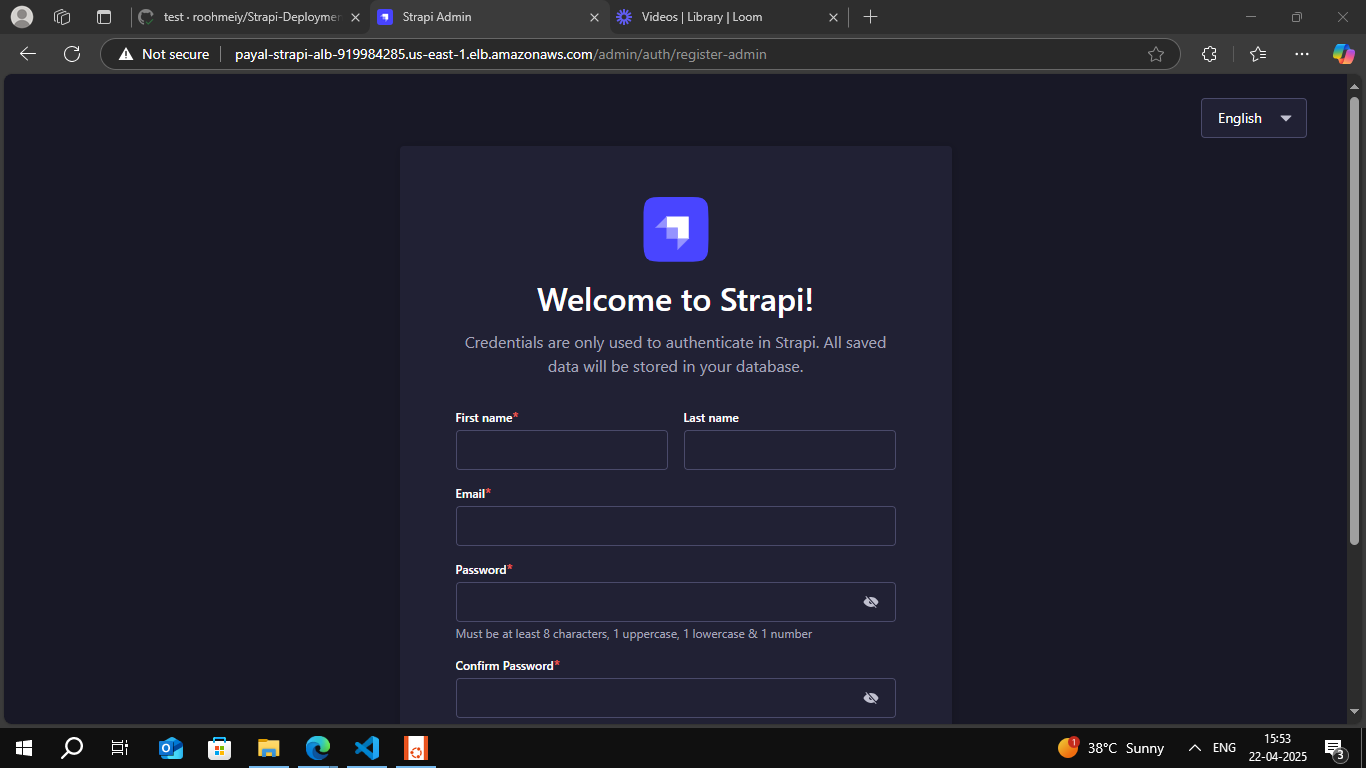
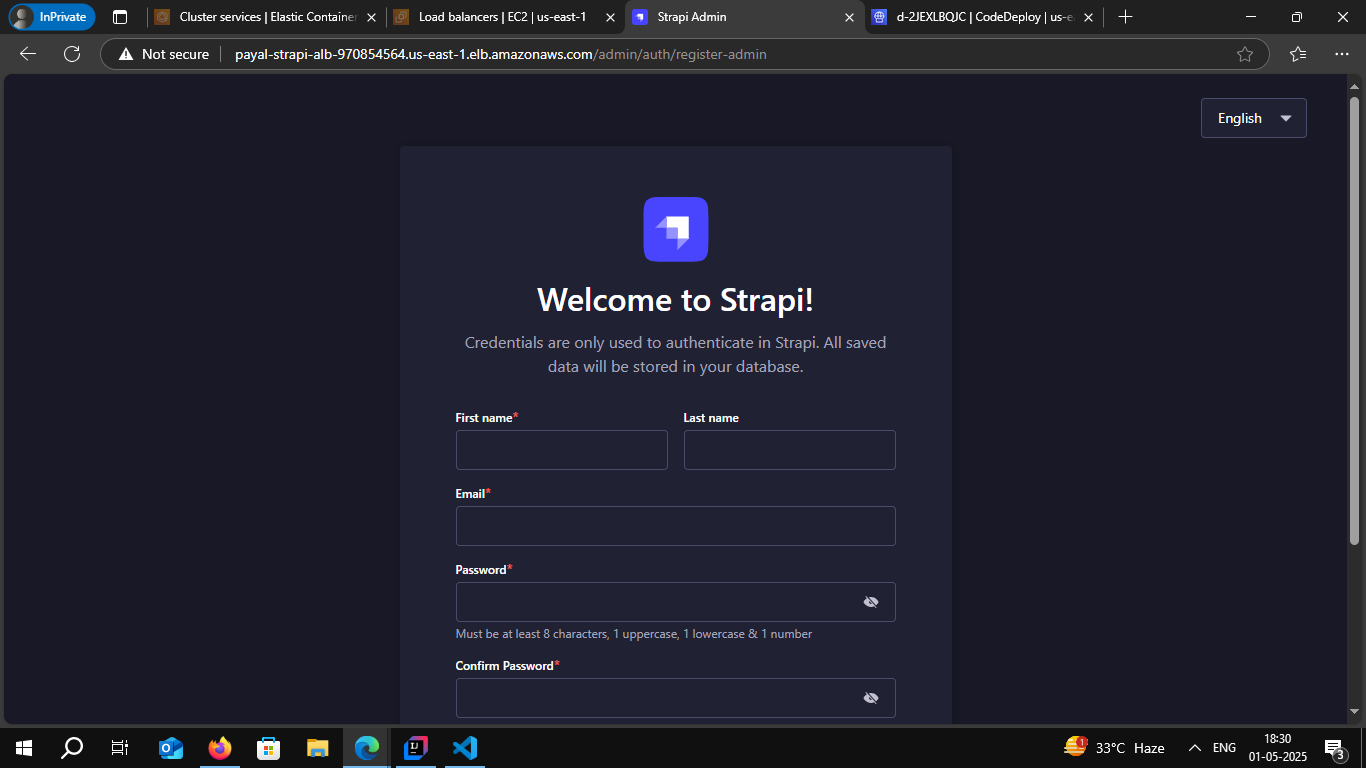
blue green deployment successful

diff --git a/Terraform-blue-green-deployment/README.md b/Terraform-blue-green-deployment/README.md
@@ -1,141 +1,91 @@
--  Deploys a Strapi CMS on AWS using Terraform and ECS Fargate.
-Infrastructure includes VPC, subnets, security groups, ALB, and ECS services.
-It pulls container images from an Amazon ECR repository.
-CI/CD pipeline is automated using GitHub Actions for seamless deployment.
-
 ![img3](img/img3.png "img3")
 ![img4](img/img4.png "img4")
-![img5](img/img5.jpeg "img5")
-![img6](img/img6.png "img6")
-
-### The Terraform code is in directory- Terraform-ecs-cicd  and pipleine code is in .github/workflows/strapi-ecs-yaml
-
-# Strapi AWS ECS Deployment Documentation
-
-## Overview
-
-This document describes the GitHub Actions workflow and Terraform configuration used to deploy a Strapi application to Amazon Elastic Container Service (ECS) fargate . The deployment pipeline builds a Docker image, pushes it to Amazon Elastic Container Registry (ECR), and deploys the containerized application to ECS using Fargate also theinfrastructure related to that such as vpc, subnet, internet gateway,route table, route table association, ALB, security groups, ECR repo.
-
-## Deployment Pipeline
-
-The GitHub Actions workflow automates the build and deployment process, using Terraform to manage the AWS infrastructure. The workflow is triggered by pushes to the main branch or can be manually triggered.
-
-### Workflow Stages
-
-1. **Prepare Environment**
-   - Checks out the code repository
-   - Configures AWS credentials
-   - Builds and pushes the Docker image to ECR with commit SHA tag
-   - Outputs the full image reference for use in subsequent jobs
-
-2. **Deploy Infrastructure**
-   - Sets up Terraform
-   - Initializes Terraform working directory
-   - Plans and applies the infrastructure changes
-   - Forces a new deployment of the ECS service
-
-3. **Cleanup on Failure**
-   - Destroys all created resources if the deployment fails
-   - Ensures no orphaned resources remain after a failed deployment
-
-### Image Tagging Strategy
-
-The workflow uses the Git commit SHA as the image tag to ensure immutable deployments and easy traceability:
-
-```yaml
-IMAGE_TAG: ${{ github.sha }}
-```
-
-The Docker image is built and pushed with this tag:
-
-```yaml
-docker build -t $ECR_REGISTRY/$ECR_REPOSITORY:$IMAGE_TAG .
-docker push $ECR_REGISTRY/$ECR_REPOSITORY:$IMAGE_TAG
-```
-
-## AWS Infrastructure
-
-The Terraform configuration creates and maintains the following AWS resources:
-
-### Networking
-- VPC with CIDR 10.0.0.0/16
-- Two public subnets across different Availability Zones
-- Internet Gateway
-- Route Table with public internet route
-- Security Group allowing traffic on ports 80 and 1337
-
-### Container Services
-- ECS Cluster
-- Fargate-compatible Task Definition with environment variables
-- ECS Service configured for high availability
-- Application Load Balancer (ALB)
-- Target Group with health checks
-
-### Task Definition
-
-The ECS Task Definition specifies a container using the ECR image built in the workflow:
-
-```terraform
-container_definitions = jsonencode([{
-  name  = "strapi-app"
-  image = "${data.aws_ecr_repository.strapi_repo.repository_url}:${var.image_tag}"
-  # Additional configuration...
-}])
-```
-
-The `image_tag` variable is populated with the Git commit SHA from the GitHub workflow.
-
-## Configuration and Secrets
-
-The deployment relies on the following GitHub secrets:
-
-### AWS Configuration
-- `AWS_ACCESS_KEY_ID`: AWS access key
-- `AWS_SECRET_ACCESS_KEY`: AWS secret key
-- `AWS_REGION`: Target AWS region
-
-### ECR Configuration
-- `ECR_REPOSITORY_NAME`: Name of the ECR repository
-
-### Infrastructure Naming
-- `VPC_NAME`: Name tag for the VPC
-- `IGW_NAME`: Name tag for the Internet Gateway
-- `SECURITY_GROUP_NAME`: Name tag for the Security Group
-- `ECS_CLUSTER_NAME`: Name for the ECS cluster
-- `TASK_DEFINITION_NAME`: Name for the ECS task definition
-- `ECS_SERVICE_NAME`: Name for the ECS service
-- `ALB_NAME`: Name for the Application Load Balancer
-- `TARGET_GROUP_NAME`: Name for the ALB target group
-
-### Strapi Configuration
-- `API_TOKEN_SALT`: Salt for Strapi API tokens
-- `ADMIN_JWT_SECRET`: Secret for Strapi admin JWT
-- `TRANSFER_TOKEN_SALT`: Salt for transfer tokens
-- `APP_KEYS`: Comma-separated app keys for Strapi
-
-## Monitoring and Health Checks
-
-The ALB is configured with health checks to monitor the Strapi application:
-
-```terraform
-health_check {
-  path                = "/health"
-  interval            = 30
-  timeout             = 5
-  healthy_threshold   = 2
-  unhealthy_threshold = 2
-  matcher             = "200-499"
-}
-```
-
-## Scaling Considerations
-
-The current configuration deploys a single instance of the Strapi application. To scale:
-1. Increase the `desired_count` in the ECS service resource
-2. Consider adjusting the container CPU and memory allocation
-3. Monitor the ALB and adjust target group settings as needed
 
 
-## Conclusion
+# TASK-10 --> 📘 Blue/Green Deployment Pipeline for Strapi on AWS ECS using GitHub Actions
 
-This deployment configuration provides a reliable, immutable, and traceable way to deploy Strapi applications to AWS ECS fargate using GitHub Actions and Terraform. By using commit SHAs as image tags, each deployment is uniquely identifiable and can be traced back to a specific code version.
+# 🧩 Overview
+
+This GitHub Actions workflow automates the **Blue/Green deployment** of a **Strapi backend** on **AWS ECS with Fargate**, using **Terraform** for infrastructure provisioning and **AWS CodeDeploy** for controlled, zero-downtime deployments.
+
+---
+
+## 🚀 Workflow Trigger
+
+The workflow is triggered on:
+- A `push` to the `main` branch (excluding specific files).
+- Manually via `workflow_dispatch`.
+
+---
+
+## 🛠 Workflow Structure
+
+### 🔹 1. **Prepare Environment Job**
+
+**Goal:** Build the Docker image and push it to Amazon ECR.
+
+#### Steps:
+- Checkout code.
+- Configure AWS credentials.
+- Login to Amazon ECR.
+- Build Docker image from code.
+- Push image to ECR with Git SHA tag.
+- Save the full image URI for the next stages.
+
+📦 **Output:** `image_uri` of the Docker image pushed to ECR.
+
+---
+
+### 🔹 2. **Deploy Infrastructure Job**
+
+**Goal:** Provision or update ECS infrastructure using Terraform.
+
+#### Steps:
+- Checkout code.
+- Configure AWS credentials.
+- Setup Terraform.
+- Initialize Terraform (`terraform init`).
+- Create an execution plan (`terraform plan`).
+- Apply the plan (`terraform apply`), using:
+  - `TF_VAR_image_tag`: Docker image tag
+  - `TF_VAR_ecr_repo_name`: ECR repository name
+
+✅ **Only if successful**, the next job is triggered.
+
+---
+
+### 🔹 3. **Deploy New Version with Blue/Green**
+
+**Goal:** Register a new ECS task definition and deploy it using AWS CodeDeploy with a Blue/Green strategy.
+
+#### Steps:
+- Checkout code.
+- Configure AWS credentials.
+- Construct the Docker image URI (if not passed).
+- Retrieve current ECS task definition and replace image URI.
+- Register new task definition with ECS.
+- Generate `appspec.json` to instruct CodeDeploy.
+- Upload `appspec.json` to S3.
+- Create a new deployment in CodeDeploy:
+  - Uses `CodeDeployDefault.ECSCanary10Percent5Minutes` strategy.
+- Poll CodeDeploy deployment status:
+  - Wait until success or failure.
+
+
+## 🔄 Deployment Strategy
+
+### ✅ CodeDeploy: ECS Blue/Green
+
+- **Green:** New version of the ECS service (new task definition).
+- **Blue:** Existing running version.
+- Traffic is shifted **gradually** (10% → wait 5 min → 100%).
+- Safe rollback is possible if deployment fails.
+
+---
+
+## ✅ Benefits
+
+- Zero-downtime deployment.
+- Rollback friendly.
+- Fully automated with GitHub Actions.
+- Reproducible infra with Terraform.
